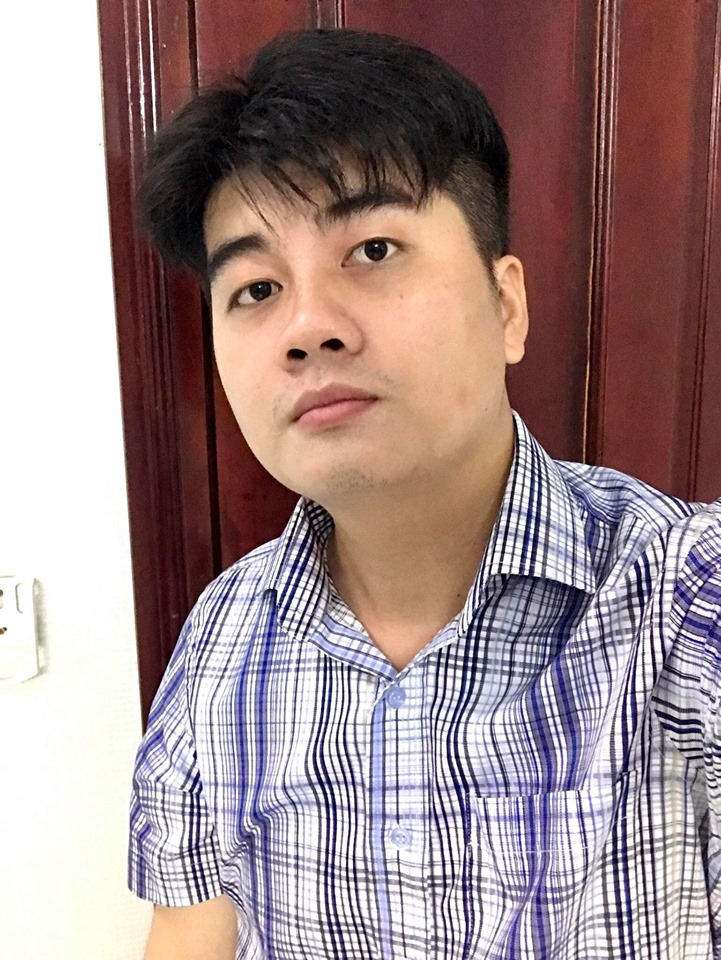
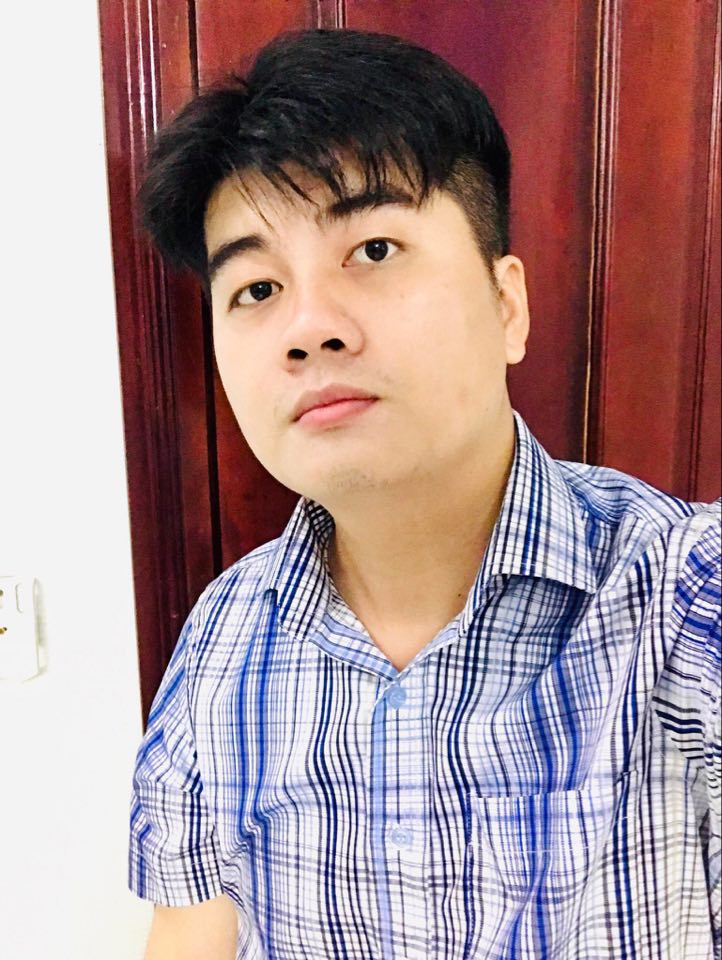
update
27/05/2020

diff --git a/index.html b/index.html
@@ -12,7 +12,7 @@
   <div class="resume">
    <div class="resume_left">
      <div class="resume_profile">
-       <img src="public/img/avatarCV.jpg" alt="profile_pic">
+       <img src="public/img/avatar.jpg" alt="profile_pic">
      </div>
      <div class="resume_content">
        <div class="resume_item resume_info">

diff --git a/css/style.css b/css/style.css
@@ -41,7 +41,7 @@ body {
 .resume .resume_left .resume_profile {
   max-width: 60%;
   max-height: 300px;
-  margin-left: 72px;
+  margin-left: 75px;
   overflow: hidden;
 }
 
